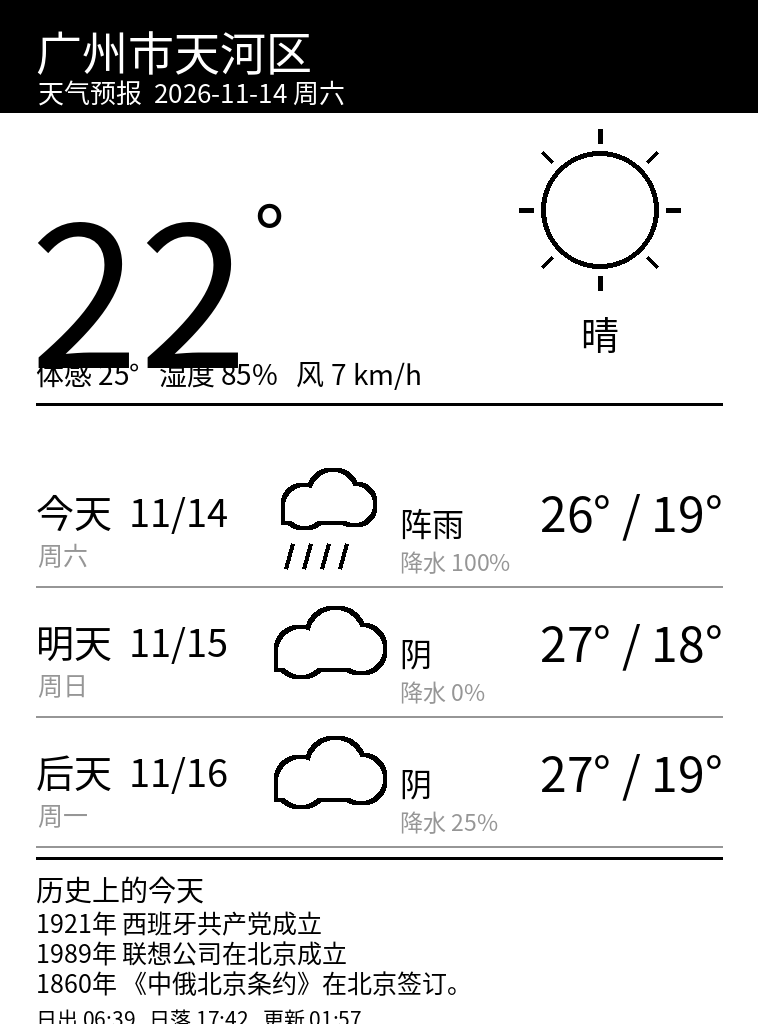
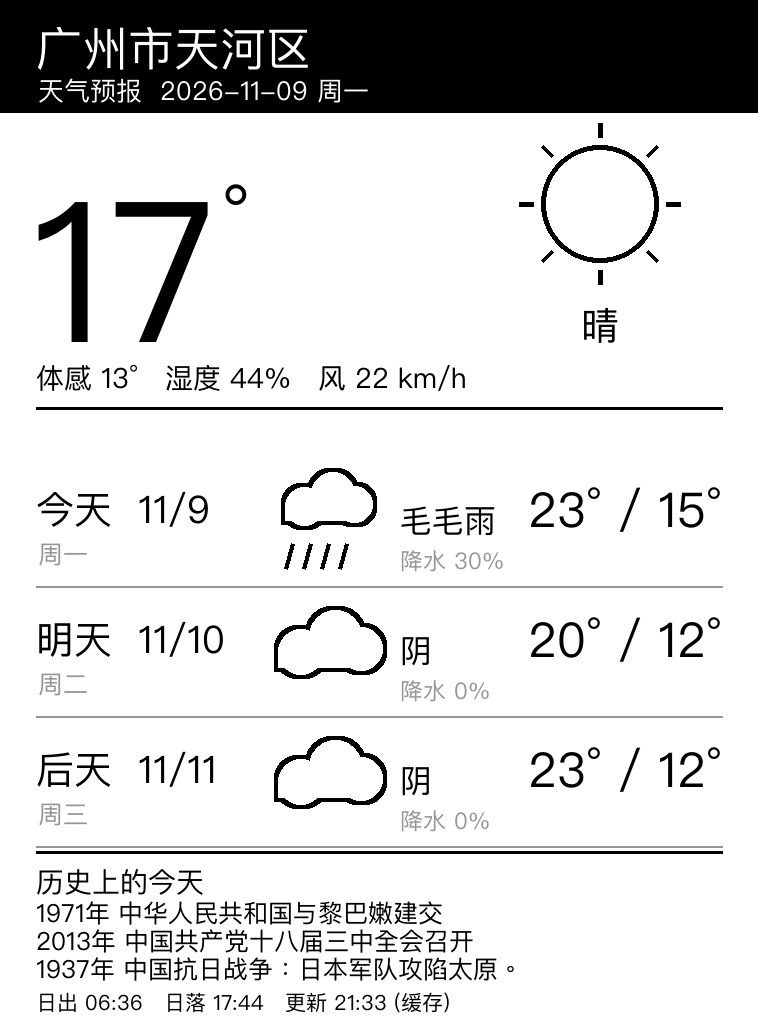
fix: raise top temp block and bottom update line to avoid clipping

diff --git a/gen_weather.py b/gen_weather.py
@@ -326,16 +326,16 @@ def render(data, w, h, live):
 
     # ===== 当前实况 =====
     temp = round(c["temperature_2m"])
-    d.text((S(30), T(140)), str(temp), font=font(T(196)), fill=BLACK)
+    d.text((S(30), T(134)), str(temp), font=font(T(196)), fill=BLACK)
     tb = d.textbbox((0, 0), str(temp), font=font(T(196)))
-    d.text((S(36) + (tb[2] - tb[0]), T(170)), "°", font=font(T(84)), fill=BLACK)
+    d.text((S(36) + (tb[2] - tb[0]), T(164)), "°", font=font(T(84)), fill=BLACK)
     cur_wx = WMO.get(c["weather_code"], "—")
-    draw_icon(img, icon_kind(c["weather_code"]), S(600), T(210), S(140), lw=max(4, S(5)))
-    text_c(d, S(600), T(304), cur_wx, font(T(38)))
+    draw_icon(img, icon_kind(c["weather_code"]), S(600), T(204), S(140), lw=max(4, S(5)))
+    text_c(d, S(600), T(298), cur_wx, font(T(38)))
     detail = "体感 %s°   湿度 %s%%   风 %s km/h" % (
         round(c["apparent_temperature"]), c["relative_humidity_2m"], round(c["wind_speed_10m"]))
-    d.text((S(36), T(352)), detail, font=font(T(28)), fill=BLACK)
-    d.line([(S(36), T(404)), (w - S(36), T(404))], fill=BLACK, width=max(2, S(3)))
+    d.text((S(36), T(358)), detail, font=font(T(28)), fill=BLACK)
+    d.line([(S(36), T(408)), (w - S(36), T(408))], fill=BLACK, width=max(2, S(3)))
 
     # ===== 三天预报（今天/明天/后天 自带标签，无需标题） =====
     names = ["今天", "明天", "后天"]
@@ -366,10 +366,10 @@ def render(data, w, h, live):
         hist = ""
 
     # ===== 历史上的今天（独立区块，更大空间） =====
-    d.line([(S(36), T(858)), (w - S(36), T(858))], fill=BLACK, width=max(2, S(3)))
-    y = T(868)
+    d.line([(S(36), T(852)), (w - S(36), T(852))], fill=BLACK, width=max(2, S(3)))
+    y = T(862)
     d.text((S(36), y), "历史上的今天", font=font(T(28)), fill=BLACK)
-    y += T(36)
+    y += T(33)
     if hist:
         hf = font(T(25))
         lines = []
@@ -383,10 +383,11 @@ def render(data, w, h, live):
                 break
         for ln in lines[:3]:
             d.text((S(36), y), ln, font=hf, fill=BLACK)
-            y += T(30)
+            y += T(28)
         y += T(8)
     else:
         y += T(8)
+    y = min(y, T(996))   # 更新时间行保险上限，防止贴到 1024 底边被裁
     sr = dl["sunrise"][0][-5:]
     ss = dl["sunset"][0][-5:]
     upd = fetched[-5:] if len(fetched) >= 5 else fetched  # 只取 HH:MM
